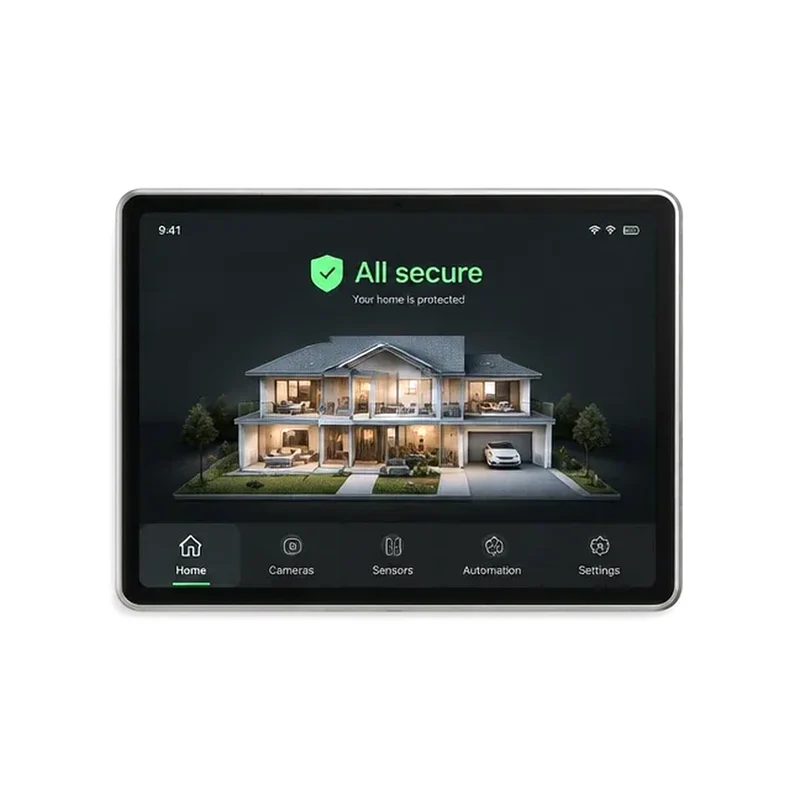
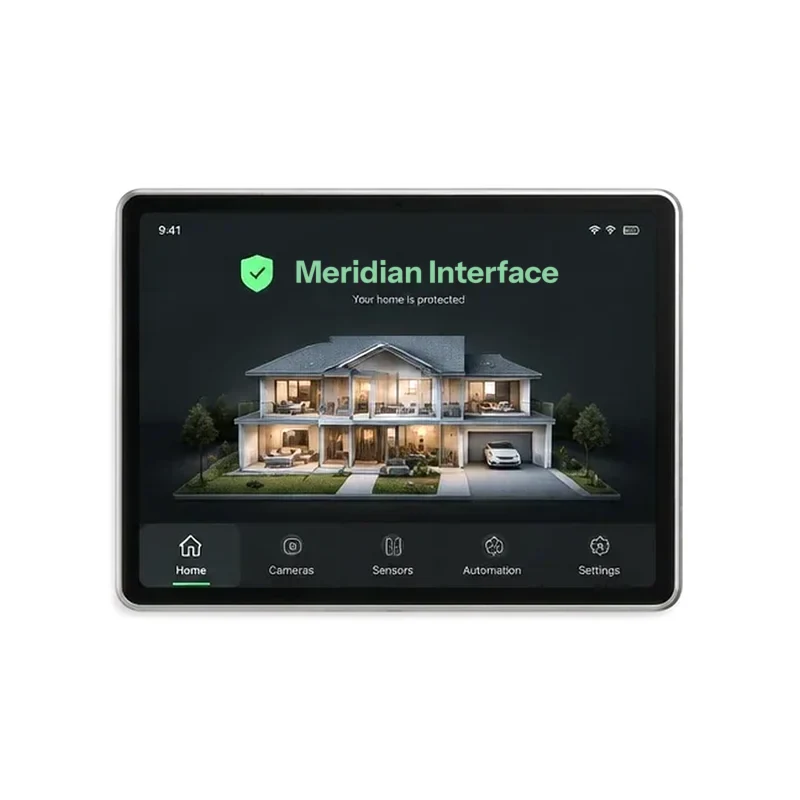
Meridian Interface mark on the panels and in the website pictures
The client read "All secure" in the website pictures as a stray brand
name. In the every-screen picture, the security package and the panel
close-up it now reads "Meridian Interface" (same color and size; the
shield and "Your home is protected" stay). The live panels keep their
"All secure" status line and gain a small Meridian / Interface mark
under every screen and under All controls, checked by e2e.

Claude-Session: https://claude.ai/code/session_01FBzSqUctMiZhRbDXg9NMtg

Changed region(s): [[0.375, 0.3125, 0.6875, 0.375], [0.2812, 0.3125, 0.3438, 0.375]]

diff --git a/home-ai/web/app.js b/home-ai/web/app.js
@@ -2472,11 +2472,14 @@ function removeNightPhoto() {
 
 const SCREEN_VIEW = { command: commandScreen, wallpaper: wallpaperScreen, glass: glassScreen, wall: wallScreen, evening: eveningScreen, aurora: auroraScreen, console: consoleScreen, classic: classicScreen, neon: neonScreen, lagoon: lagoonScreen };
 let introFor = null; // a screen draws itself in once when it opens, not on every live update
+// The maker's mark under every screen, in that screen's own quiet text color.
+const brandMark = () => el("p", { class: "brand-mark" }, "Meridian", el("span", { "aria-hidden": "true" }, " / "), "Interface");
+
 function renderAlt() {
   const alt = $("#alt");
   const view = (SCREEN_VIEW[screen] || commandScreen)();
   if (introFor !== screen) { introFor = screen; view.classList.add("intro"); }
-  alt.replaceChildren(view);
+  alt.replaceChildren(view, brandMark());
   loadCameraPictures();
   const slot = alt.querySelector(".chart-slot");
   if (slot && energy) renderEnergyChart(slot, energy, slot.clientWidth || 600);

diff --git a/home-ai/website/index.html b/home-ai/website/index.html
@@ -180,7 +180,7 @@
       </div>
 
       <figure class="shot-wide">
-        <img src="img/package.webp" alt="The security package: a wall panel showing All secure, outdoor and indoor cameras, a video doorbell, a keypad lock, a smoke and carbon monoxide alarm, door, motion and leak sensors, the home server, and a phone and watch showing an alert from the front door camera." width="1344" height="752">
+        <img src="img/package.webp" alt="The security package: a wall panel showing Meridian Interface above the house, outdoor and indoor cameras, a video doorbell, a keypad lock, a smoke and carbon monoxide alarm, door, motion and leak sensors, the home server, and a phone and watch showing an alert from the front door camera." width="1344" height="752">
         <figcaption>One package, one design: every device answers to the same panel and the same app. Smoke and CO alerts are coming soon.</figcaption>
       </figure>
 

diff --git a/home-ai/web/styles.css b/home-ai/web/styles.css
@@ -1955,3 +1955,7 @@ input[type="range"].pill-range::-moz-range-thumb { width: 8px; height: 26px; bor
   .wa-cams, .ev-cams, .la-pair, .la-stats, .cl-doors, .cl-tiles, .cl-cams { grid-template-columns: minmax(0, 1fr); }
   .gl-clock { font-size: 3rem; }
 }
+
+/* The Meridian Interface mark under every screen (brandMark() in app.js). */
+.brand-mark { margin: 4px 0 6px; text-align: center; font: 600 11px/1.4 var(--font, "Hanken Grotesk", sans-serif); letter-spacing: 0.32em; text-transform: uppercase; color: var(--muted); }
+.brand-mark span { letter-spacing: 0.12em; }

diff --git a/home-ai/web/index.html b/home-ai/web/index.html
@@ -114,6 +114,7 @@
       </div>
 
       <footer class="muted small" id="footer"></footer>
+      <p class="brand-mark">Meridian<span aria-hidden="true"> / </span>Interface</p>
     </section>
 
     <!-- The screen this panel shows, from the library -->

diff --git a/home-ai/CLAUDE.md b/home-ai/CLAUDE.md
@@ -32,7 +32,7 @@ An AI agent for a new home: Node 20+, ES modules, one runtime dependency (`@anth
 - Voice is push-to-talk (`web/voice.js`) and needs a secure page; e2e replaces speech APIs with stand-ins. Every screen shares the one voice bar, and every reply (typed, spoken, a scene, a briefing) is spoken while the speaker button is on. iPad/iPhone Safari only plays sound that starts in a tap, and a reply arrives after the tap, so the first touch unlocks both voices once (a silent utterance, and a moment of silence on the one `Audio` player every ElevenLabs clip then plays through; never `new Audio()` per clip, and the loudness meter attaches to that player once). The browser voice speaks a sentence at a time (split only at sentence ends, so "71.5" stays whole) at rate 0.97, in the smoothest voice the device has (`rankVoice`: Edge "(Natural)", Apple Premium/Enhanced/Siri, then Google voices; novelty voices like Zarvox never), and only the newest reply may change the voice state.
 - Energy is labeled "estimated" unless a `power` device (a real meter) exists. Never show an estimate as measured. Only the demo seeds a simulated day.
 - Setpoint +/- keeps pending values in `pendingTarget` until a refresh *after* the request settles; never mutate `state`, and never drop the pending value on completion (the panel would briefly redraw from a stale snapshot and a quick second tap would step from it).
-- Screens (`SCREENS` in `web/app.js`): ten, each rendered into `#alt` by its function in `SCREEN_VIEW` (`commandScreen`, `glassScreen`, … , `wallpaperScreen`). Nine are the client's reference designs (October 10) and each has its own look: tokens on `.panel[data-screen=…]` in styles.css (the "designed screens" section), which every shared part takes on; html `data-look` stays "grounded" on them. Old ids map through `SCREEN_ALIAS` (signature→command, studio→glass, command-center→wall, family-hub→evening, nightstand→aurora, rooms→classic, entry→console). **All controls** (`openControls()`, a `.controls-open` button on every screen) shows the old stage/glass view (room tabs, `#map`, every tile, Updates, About you, Simulator) with `#app[data-screen="controls"]` and the chosen finish; `#controls-close` goes back. Use classes, not ids, inside `#alt`. A screen gets class `intro` on its first render after opening, and only then draws itself in. Every number shown comes from the house; nothing loops for show. `panelRoom` (Screens → This panel is in) is sent with chat and feelings.
+- Screens (`SCREENS` in `web/app.js`): ten, each rendered into `#alt` by its function in `SCREEN_VIEW` (`commandScreen`, `glassScreen`, … , `wallpaperScreen`). Nine are the client's reference designs (October 10) and each has its own look: tokens on `.panel[data-screen=…]` in styles.css (the "designed screens" section), which every shared part takes on; html `data-look` stays "grounded" on them. Old ids map through `SCREEN_ALIAS` (signature→command, studio→glass, command-center→wall, family-hub→evening, nightstand→aurora, rooms→classic, entry→console). **All controls** (`openControls()`, a `.controls-open` button on every screen) shows the old stage/glass view (room tabs, `#map`, every tile, Updates, About you, Simulator) with `#app[data-screen="controls"]` and the chosen finish; `#controls-close` goes back. Use classes, not ids, inside `#alt`. Every screen ends with the Meridian Interface mark (`brandMark()`, appended by `renderAlt`), and All controls has the same `.brand-mark` under `#footer`; the status line keeps saying "All secure" (the client asked for the brand, not for the status to go). A screen gets class `intro` on its first render after opening, and only then draws itself in. Every number shown comes from the house; nothing loops for show. `panelRoom` (Screens → This panel is in) is sent with chat and feelings.
 - Weather (`src/weather.js`) comes only from Home Assistant or Open-Meteo; with neither it reports `available: false` and every surface says it isn't connected. Only the demo seeds sample weather, labeled "sample". Never show made-up weather.
 - ElevenLabs voice (`src/speech.js`): the API key stays on the server; panels call `/api/speech` and fall back to the browser voice on any failure (503). The demo never uses it. CSP allows `media-src blob:` for the clips. The homeowner chooses the home's voice from `VOICES` (Lily D, the default; Sia; Richard; Charlotte) in Screens → Haven's voice: `POST /api/voice` saves it in `data/voice.json` and every panel speaks with it (`state.voice.choice`/`choices`; the ElevenLabs ids never leave the server's list); the cache is per voice. `HAVEN_VOICE_ID` sets a custom voice until someone picks one. Samples of all four are in `docs/voice/` (Lily's is Haven speaking; the others are each voice's own sample).
 - Cameras (`src/cameras.js`) come only from Home Assistant: every `camera.*` entity, plus optional `cameras` entries in `config/home.json` (name, room, `hidden`, `doorbell`, `motion`). The HA adapter alone holds the token (`cameraImage`, `cameraStream` through HA's camera proxy; `watchStates` hands each poll to the cameras). Routes: `/api/cameras`, `…/:id/snapshot`, `…/:id/live` (motion JPEG; an `<img>` can't send headers, so it takes `?token=`), `…/stills/:id`. A doorbell ring (an `event.*` that changes, or a `binary_sensor` going on; the first poll is a baseline) saves a still, publishes `doorbell`, and pushes the picture (ntfy PUT attachment, Pushover `attachment_base64`) with `bypassQuiet`; motion saves a still without a push. Stills live in `data/cameras/` (200, 14 days), in memory without a data dir. The picture never goes into the event log, and nothing from a camera goes to the AI. A ring has no path to the controller. With no cameras (simulator, a home without them) every surface says so; never a placeholder feed. The demo alone shows four stills from the film of the model home (`web/demo/cameras/`, inlined by build:demo, served by `web/demo/setup.js` as `/api/cameras` with `sample: <data URL>` on each camera), each marked "Sample picture", and its viewer shows a still, never "Live". Panel: the Cameras card on the Security Console (`camerasBlock()`) and camera tiles (`camFeed()`) on Command, Everything Wall, Good Evening, Portrait Classic and Neon Frame (pictures fetched with the token header into blob URLs, refreshed every 10 s), the `#camera-view` dialog (live, falling back to a picture every 2 s), and a ring opens it on Security Console panels. e2e stands in for HA's cameras with `page.route`.

diff --git a/home-ai/docs/STATUS.md b/home-ai/docs/STATUS.md
@@ -1,6 +1,6 @@
 # Haven: Where Things Stand
 
-_Last updated: October 10, 2026 (ten new screens from the client's reference dashboards). Branch `claude/inspiring-fermi-jpi3vh` in `infoallin1eventsllc-sys/all-in-1-events-2`, folder `home-ai/`._
+_Last updated: October 11, 2026 (the Meridian Interface mark on the panels and in the website pictures). Branch `claude/inspiring-fermi-jpi3vh` in `infoallin1eventsllc-sys/all-in-1-events-2`, folder `home-ai/`._
 
 ## Pick up here (next session)
 **State:** everything is committed and pushed; the working tree is clean. The last full run (September 27, after the debug pass) was all passing: 124 unit tests and 397 browser checks across the server panel and the demo, with 0 accessibility violations. The published demo links still have the build from before the debug pass; republish them (CLAUDE.md, Published demos) to pick up the fixes.
@@ -23,6 +23,9 @@ _Last updated: October 10, 2026 (ten new screens from the client's reference das
 - **The drawn model** (the fallback without WebGL) shows an L-shaped room as its largest rectangle, so the rest of that room is left empty. It shows one floor at a time.
 - **Not measured:** hologram frame rate and battery use on a real wall tablet; how a 4,000 sq ft, three-floor home looks.
 - **The browser run is slow** (about 15 minutes per target) because WebGL runs in software here.
+
+## October 11: the Meridian Interface mark
+The client read "All secure" in the website's pictures as a stray brand name and asked for Meridian Interface there. In the every-screen picture, the security package and the wall panel close-up (`website/img/every-screen.webp`, `package.webp`, `p-panel.webp`), "All secure" is repainted as "Meridian Interface" in the same color and size, with the shield and "Your home is protected" kept (the shield moved so the line stays centred). On the live panels the status line still says "All secure" (it is how the family knows nothing is wrong, and it changes when something is); instead every screen and All controls end with a small "Meridian / Interface" mark in that screen's quiet text color (`brandMark()` in `web/app.js`, `.brand-mark` in styles.css; e2e checks it on all ten screens).
 
 ## October 10: ten new screens, from the client's reference dashboards
 The client chose new wall-panel designs (two sets of reference photos, made into nine mockups on the design canvas https://claude.ai/artifact/8gMYjg13PrHj1GZNdZB4Rd) and asked for them to replace seven screens on the website and the panel, keeping Wallpaper. All nine are now real screens in the panel, each with its own look: **Command** (the new main screen; replaces Signature), **Glass** (replaces Studio: the voice line, the agents and a thermostat dial), **Everything Wall** (replaces Command Center), **Good Evening** (replaces Family Hub), **Aurora** (replaces Nightstand, with the bedroom photo), **Security Console** (replaces Entry; the doorbell opens its camera here), **Portrait Classic** (replaces Rooms), **Neon Frame** and **Lagoon** (new). Wallpaper stays and is the one screen that comes in the three finishes. Old links and saved choices map to the new screens.
